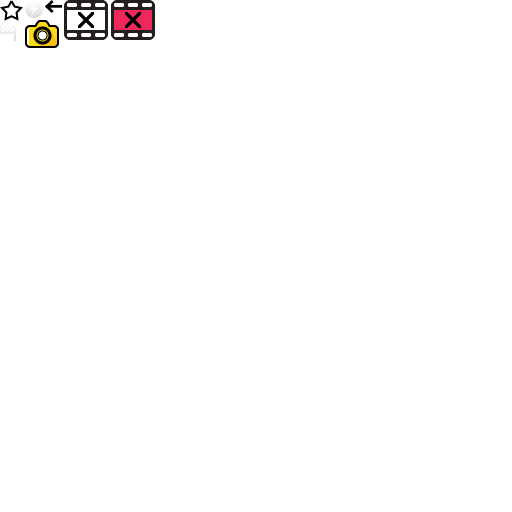
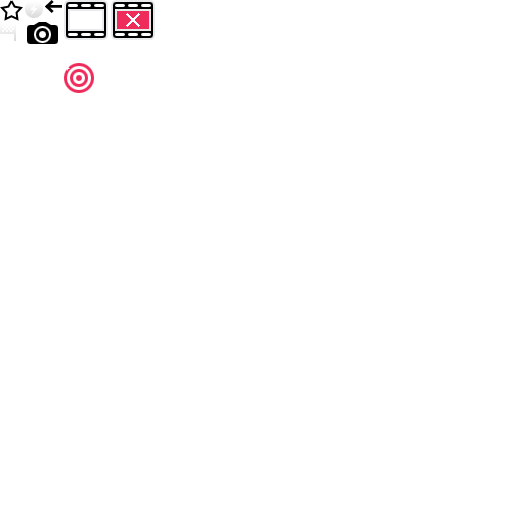
feat(stmGameEti): обновление панели (30мин)

Changed region(s): [[0.0312, 0.0, 0.3125, 0.0938], [0.125, 0.125, 0.1875, 0.1875]]

diff --git a/src/stmGameEti/directives/stmGameEtiScreen/template.html b/src/stmGameEti/directives/stmGameEtiScreen/template.html
@@ -149,31 +149,34 @@
 
 </div>
 <!-- Panel -->
-<div class='b-gameEti-panel' ng-class="showToolbar ? 'state_active' : ''">
-    <div class='b-gameEti-panel-h'>
-        <div class='b-gameEti-panel-layaut'>
-            <div class='b-gameEti-panel-column mod_first'>
-                <span class="b-button b-button_size_medium b-button_scheme_white">
-                    <span class="b-icons b-icons_arrow">
-                        <span class="b-icons__item"></span>
-                    </span>
-                    <span class="b-button__text">На карту</span>
-                    <a class="b-button__link" href="../map/"></a>
-                </span>
+<div class='b-gamePanel' ng-class="showToolbar ? 'state_active' : ''">
+    <div class='b-gamePanel-h'>
+        <div class='b-gamePanel-layaut'>
+            <div class='b-gamePanel-column mod_first'>
+                <div class="b-button b-button_map">
+                    <span class='b-button__text'>На карту</span>
+                    <a class='b-button__link' href='../map/'></a>
+                </div>
             </div>
-            <div class='b-gameEti-panel-column mod_second'>
+            <div class='b-gamePanel-column mod_second'>
                 <ul class="b-gameEti-shots">
                     <li ng-repeat="n in [] | range:attemptsCount" class="b-gameEti-shots-item" ng-class="attempts < attemptsCount - n ? 'state_active' : ''"></li>
                 </ul>
             </div>
-            <div class='b-gameEti-panel-column mod_third'>
-                <span class="b-button b-button_size_medium2 b-button_scheme_white margin_space20">
+            <div class='b-gamePanel-column mod_third'>
+                <div class="b-gameEti-shot">
+                    <span class="b-icons b-icons_photo">
+                        <span class="b-icons__item"></span>
+                    </span>
+                    <span class="b-gameEti-shot__text">{{ineti}}</span>
+                </div>
+<!--                 <span class="b-button b-button_size_medium2 b-button_scheme_white margin_space20">
                     <span class="b-icons b-icons_photo">
                         <span class="b-icons__item"></span>
                     </span>
                     <span class="b-button__text">{{ineti}}</span>
                     <a class="b-button__link" href="#"></a>
-                </span>
+                </span> -->
 
                 <span class="b-button b-button_size_medium2 b-button_scheme_yellow">
                     <span class="b-icons b-icons_star">

diff --git a/src/stmGameEti/directives/stmGameEtiScreen/b-gameEti.css b/src/stmGameEti/directives/stmGameEtiScreen/b-gameEti.css
@@ -674,29 +674,6 @@
 
 /* b-gameEti-panel */
 /*==========================================================*/
-.b-gameEti-panel {
-    position: absolute;
-    left: 0;
-    right: 0;
-    bottom: -62px;
-    z-index: 20;
-    height: 58px;
-    background-color: #fff;
-    border-top: 4px solid #000;
-    z-index: 10001;
-    -webkit-transition: bottom linear 0.2s;
-    transition: bottom linear 0.2s;    
-}
-.b-gameEti-panel.state_active {
-    bottom: 0; 
-}
-.b-gameEti-panel-h {
-    padding: 8px 20px 0 20px;
-}
-
-.b-gameEti-panel-layaut {
-    display: table;
-}
 
 /* b-gameEti-shots */
 .b-gameEti-shots {
@@ -704,6 +681,7 @@
     list-style: none;
     margin: 0;
     white-space: nowrap;
+    text-align: center; 
     padding: 0 10px;
 }
 .b-gameEti-shots-item {
@@ -717,26 +695,23 @@
     background-position: -111px 0px;
 }
 
-.b-gameEti-panel-column {
-    display: table-cell;
-    vertical-align: top;
-    white-space: nowrap;
+/* b-gameEti-shot */
+.b-gameEti-shot {
+    display: inline-block;
+    margin-right: 20px;
+    vertical-align: middle;
+}
+.b-gameEti-shot__text {
+    font-size: 24px;
+    color: #fff;
+    vertical-align: middle;
 }
 
-.b-gameEti-panel-column.mod_first {
-}
-
-.b-gameEti-panel-column.mod_second {
-    width: 100%;
-    text-align: center;
-}
-
-.b-gameEti-panel-column.mod_third {
+.b-gameEti .b-gamePanel-column.mod_third {
     font-size: 0;
 }
-
-.margin_space20 {
-    margin-right: 20px;
+.b-gamePanel-column.mod_third .b-button {
+    vertical-align: middle;
 }
 
 /* b-gameEti-birds */

diff --git a/src/stmIndex/directives/stmIndexPopup/b-popup.css b/src/stmIndex/directives/stmIndexPopup/b-popup.css
@@ -67,7 +67,9 @@
   line-height: 56px;
 }
 .b-button.mod_popup-footer-map .b-button__text {
-  font-size: 12px;
+    font-size: 13px;
+    font-weight: bold;
+    color: #000;
 }
 
 .b-popup-footer-share {
